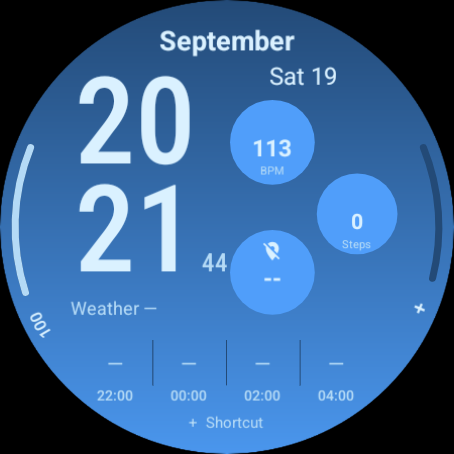
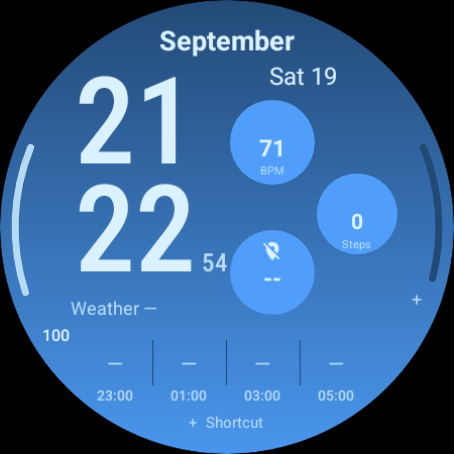
Document verified edge clipping fix with both emulator sizes and Windows setup [skip ci]

diff --git a/docs/VALIDATION.md b/docs/VALIDATION.md
@@ -7,7 +7,7 @@ Build environment: Linux x86-64, Temurin JDK 17, Gradle 8.13, Android Gradle Plu
 | Check | Result |
 | --- | --- |
 | Generated WFF matches source generator | Pass |
-| Seven regression checks | Pass |
+| Eight regression checks | Pass |
 | Official WFF validator 1.7.0, format 2 | Pass |
 | Debug APK and unsigned release AAB | Build successfully |
 | APK/AAB contents | No DEX; referenced images present |
@@ -15,7 +15,7 @@ Build environment: Linux x86-64, Temurin JDK 17, Gradle 8.13, Android Gradle Plu
 | Official memory evaluator, APK and AAB | Pass: active 3,551,360 bytes; ambient 3,181,712 bytes |
 | Whitespace/diff check | Pass |
 
-The regression checks cover six stable slots and their type renderers, distinct tap regions inside the circular screen, disjoint runtime rectangles and bounded rendering parts, all 16 weather conditions with day/night assets, unavailable forecast fallbacks, every hour across midnight/noon, and ambient layer visibility. Resource-label checks also prevent Android-style `@string/` references in raw WFF editor attributes; WFF expects bare resource names.
+The regression checks cover six stable slots and their type renderers, distinct tap regions inside the circular screen, disjoint runtime rectangles and bounded rendering parts, all 16 weather conditions with day/night assets, unavailable forecast fallbacks, every hour across midnight/noon, and ambient layer visibility. A pixel-by-pixel geometry check verifies the complete horizontal edge-caption rectangles remain inside their clipping masks and the round screen. Resource-label checks also prevent Android-style `@string/` references in raw WFF editor attributes; WFF expects bare resource names.
 
 Lint advisories include newer available tool versions, raw-WFF resource references that Android lint cannot trace, and backup metadata for a code-free package. No resource shrinking is enabled, and the package check confirms referenced image resources survive packaging.
 
@@ -25,21 +25,23 @@ Lint advisories include newer available tool versions, raw-WFF resource referenc
 
 The local Wear OS API 34 emulator was launched with software CPU emulation because this host has no `/dev/kvm`. It reached Android startup, but `system_server` repeatedly exceeded its 61-second watchdog timeout before package installation was available. These are operating-system boot failures; **no successful local install, watch-face rendering, complication interaction or ambient screenshot is claimed**.
 
-Hardware-accelerated [GitHub run 35466914072](https://github.com/DylanMc25/ultrawatchfaceedits/actions/runs/35466914072), commit `e8709fc`, passed builds/validation and both emulator jobs. The actual captures were downloaded and visually reviewed:
+Hardware-accelerated [GitHub run 35470002909](https://github.com/DylanMc25/ultrawatchfaceedits/actions/runs/35470002909), commit `d6832f3`, passed builds/validation and both emulator jobs. The actual captures were downloaded and visually reviewed:
 
 | Check | API 34, 454 × 454 round | API 35-ext15, 384 × 384 round |
 | --- | --- | --- |
 | APK installation and face activation | Pass | Pass |
 | Blue gradient, stacked time, date and six areas | Rendered | Rendered |
-| 12/24-hour preference | 08 / 20 hours; forecast labels switch | 08 / 20 hours; forecast labels switch |
+| 12/24-hour preference | 09 / 21 hours; forecast labels switch | 09 / 21 hours; forecast labels switch |
 | Missing weather | `Weather —`, four dashes, future-hour labels | Same |
 | Default providers | Heart rate, steps, battery; unavailable sunrise/sunset | Same |
 | Black always-on with time/date only | Pass, display state `DOZE` | Pass, display state `DOZE` |
-| Ambient illuminated area at captured time | 2.9378% | 2.1914% |
+| Ambient illuminated area at captured time | 2.9371% | 4.4743% |
 
 Illumination counts every non-black pixel within the round screen, including system overlays, with no brightness cutoff. Both captures are below the documented [15% limit](https://developer.android.com/training/wearables/wff/ambient). These measurements establish the captured date/time only, not every possible date, font or device. These captures emulate an unplugged battery so the charging overlay does not cover the shortcut; API 35 still shows the system unread-status dot.
 
 The emulator weather service returned an internal server error; no populated native forecast is claimed. Heart rate and steps are supplied by the emulator's installed providers and are not physical health measurements. Missing provider icons render empty. No readings are fabricated by the face.
+
+Version 0.1.1 fixes edge text cropped by the arc clipping masks. Both edge captions are now horizontal and inset, with smaller text for longer provider values. Rounded rectangular masks contain the complete text rectangles while preserving the six disjoint interaction areas. Native captures still showed cropped bars on the smaller display after widening the earlier arc masks. Rounded bounds preserve the bars and captions and align editor selection with the runtime slot rectangles.
 
 Runtime testing also caught a battery tap being dispatched from the steps circle. The edge slots and all rendering parts now have bounded, disjoint rectangles, with a dedicated regression test; the circular/arc outlines alone were insufficient for native tap dispatch. The native interaction script confirms the blue face before every coordinate tap and reports any launch from the wrong slot.
 
@@ -47,13 +49,13 @@ Runtime testing found a color-setting parse failure that the official schema val
 
 ### Editor and tap verification
 
-Both emulators opened the native editor and independently opened the provider chooser for **all six slots**. The JSON reports in `validation/api34-editor-results.json` and `validation/api35-editor-results.json` record six visible chooser results each, no tap mismatches and no automation errors. Full per-slot PNG/XML/activity captures are in the linked workflow artifacts. The probe cancels each chooser; changing providers and retaining a saved selection across updates remain physical-device checks.
+Both emulators opened the native editor and independently opened the provider chooser for **all six slots**. The JSON reports in `validation/api34-editor-results.json` and `validation/api35-editor-results.json` record six visible chooser results each, no tap mismatches and no automation errors. Full per-slot PNG/XML/activity captures are in the linked workflow artifacts. The probe cancels the six individual chooser checks, then assigns Alarm to the right edge and returns to the active face. This verifies the provider selection and its “Set” label. Retaining selections across updates and reboots remains a physical-device check.
 
 Native tap logs identify the correct steps, sunrise/sunset and battery slots (2, 3, 4). Battery opens the system Battery settings page on both emulators. Steps and sunrise/sunset dispatch to their slots but do not open another foreground app in these images. The emulator placeholder heart-rate provider produces no launch event and leaves the face visible; its real-watch action is unverified. No unsupported launch is reported as successful.
 
 The native editor supplies sample data: September 28 at 09:30, populated weather, heart rate, steps and sunset. Its captures verify the native populated-weather glyphs and spacing, including compact sunset text. These are **Wear OS editor sample readings**, not live weather or health. The actual face continues to display dashes when live weather is unavailable.
 
-The final ambient captures show stippled text. Earlier captures of the same rendering code were also reviewed with continuous thin text and remained below 5% illumination. The measurement applies to each captured state; brightness and readability still need physical Galaxy Watch review.
+The final API 34 ambient capture shows stippled text; API 35 shows continuous thin text. Both remain below 5% illumination. The measurement applies to each captured state; brightness and readability still need physical Galaxy Watch review.
 
 ### Coverage boundaries
 
@@ -61,13 +63,14 @@ The final ambient captures show stippled text. Earlier captures of the same rend
 | --- | --- |
 | September date, real device text metrics | Reviewed on both emulators; no time/date clipping |
 | Longer localized dates, all wide digit pairs | Ellipsis/fit policies implemented; exhaustive native captures pending |
-| Midnight/noon and forecast rollover | All 24 input hours checked against generated label expressions; native captures also show 22:00 / 00:00 / 02:00 / 04:00 forecast labels and 12-hour equivalents. Main-clock noon/midnight transitions remain pending |
+| Midnight/noon and forecast rollover | All 24 input hours checked against generated label expressions; native captures also show 23:00 / 01:00 / 03:00 / 05:00 forecast labels and 12-hour equivalents. Main-clock noon/midnight transitions remain pending |
 | Temperature extremes and unit changes | Uses native temperature values; real weather service unavailable in these emulators |
 | Empty right/bottom complications | Setup placeholders rendered |
+| Edge labels on both display sizes | Battery “100” and assigned Alarm “Set” fully visible; six selectors and correct tap dispatch verified |
 | Unavailable weather and sunrise/sunset | Observed in native captures |
 | Health permission denial | Physical provider consent flow pending |
-| Six separate touch targets | Arc/oval geometry and rectangular runtime bounds pass regression checks; all six provider choosers opened independently on both emulators |
-| Provider selection and tap launches | Correct slot dispatch observed for steps/sunrise/battery; Battery settings opens. Real heart-rate/app destinations and saved-provider persistence require physical hardware |
+| Six separate touch targets | Visible selection geometry and rectangular runtime bounds pass regression checks; all six provider choosers opened independently on both emulators |
+| Provider selection and tap launches | Correct slot dispatch observed for steps/sunrise/battery; Battery settings opens. Alarm selection is saved on exiting the editor. Real heart-rate/app destinations and persistence across updates/reboots require physical hardware |
 
 ## Preview status
 

diff --git a/docs/PULL_REQUEST.md b/docs/PULL_REQUEST.md
@@ -1,6 +1,6 @@
 # Build blue stacked-time watch face with weather and six complications
 
-Replaces the placeholder Ultra Info Board layout with a blue gradient, oversized stacked time, three staggered circular complications, editable left/right edge indicators, and a bottom shortcut. Adds native current weather and four forecasts (+2/+4/+6/+8 hours), plus a black always-on time/date display. Default readings are heart rate, steps, sunrise/sunset and battery; the right edge and shortcut start unassigned.
+Replaces the placeholder Ultra Info Board layout with a blue gradient, oversized stacked time, three staggered circular complications, editable left/right edge indicators, and a bottom shortcut. Adds native current weather and four forecasts (+2/+4/+6/+8 hours), plus a black always-on time/date display. Default readings are heart rate, steps, sunrise/sunset and battery; the right edge and shortcut start unassigned. Edge captions are horizontal and inset, with rounded rectangular clipping masks so battery percentages and assigned provider text stay visible on round screens.
 
 ![Actual API 34 active face](https://raw.githubusercontent.com/DylanMc25/ultrawatchfaceedits/codex/watchface-redesign/docs/previews/emulator-api34-active.png)
 ![Actual API 35 ambient face](https://raw.githubusercontent.com/DylanMc25/ultrawatchfaceedits/codex/watchface-redesign/docs/previews/emulator-api35-ambient.png)
@@ -9,10 +9,10 @@ These are actual Wear OS emulator captures. Weather is unavailable in the emulat
 
 Repairs resource-only WFF 2 packaging, restores the pinned Gradle wrapper, produces a code-free debug APK and unsigned release AAB, and adds build/schema/memory checks plus round Wear OS emulator capture jobs. Includes editable-slot geometry checks, forecast rollover checks, original weather assets, picker preview, and installation/release documentation.
 
-Validation evidence and platform-test limitations are tracked in [docs/VALIDATION.md](https://github.com/DylanMc25/ultrawatchfaceedits/blob/codex/watchface-redesign/docs/VALIDATION.md). Local builds, lint (no errors), seven regression tests, official schema validation, package resource checks, and memory validation pass.
+Validation evidence and platform-test limitations are tracked in [docs/VALIDATION.md](https://github.com/DylanMc25/ultrawatchfaceedits/blob/codex/watchface-redesign/docs/VALIDATION.md). Local builds, lint (no errors), eight regression tests, official schema validation, package resource checks, and memory validation pass.
 
 Both API 34 (454 px round) and API 35 (384 px round) render the face, follow 12/24-hour settings and enter the black ambient display. Reviewed ambient captures illuminate under 5% of the round screen, including system indicators. Complete evidence and untested cases are documented rather than inferred from build success.
 
-All six slots independently open their native provider chooser on both emulators. Steps, sunrise/sunset and battery taps dispatch to the correct slots, and battery opens system Battery settings. The native editor also renders the populated weather layout using its own sample data. Real health-provider launches, live weather and saved-provider persistence remain physical-device checks. [Passing build, validation and emulator run](https://github.com/DylanMc25/ultrawatchfaceedits/actions/runs/35466914072).
+All six slots independently open their native provider chooser on both emulators. Steps, sunrise/sunset and battery taps dispatch to the correct slots, and battery opens system Battery settings. The native editor also renders the populated weather layout using its own sample data. The assigned Alarm edge label is also fully visible on both sizes. Real health-provider launches, live weather and provider persistence across updates/reboots remain physical-device checks. [Passing build, validation and emulator run](https://github.com/DylanMc25/ultrawatchfaceedits/actions/runs/35470002909).
 
 This is a development milestone. Physical Galaxy Watch testing, live weather and Samsung provider/permission flows, final store identity, release signing and Play listing preparation remain required before sale.

diff --git a/README.md b/README.md
@@ -1,6 +1,6 @@
 # Ultra Info Board
 
-A resource-only Galaxy Watch / Wear OS face with a blue gradient, large stacked time, native weather, and six editable complication areas. Based on the supplied layout references; the artwork and weather glyphs here are original.
+A resource-only Galaxy Watch / Wear OS face with a blue gradient, large stacked time, native weather, and six editable complication areas. The layout prioritizes readability on round displays; the artwork and weather glyphs here are original.
 
 **Development milestone, not a store release.** Requires Wear OS 5 (API 34) or later. The working package is `com.example.ultrainfoboard`; choose the permanent publisher/package identity before the first store upload.
 
@@ -33,6 +33,21 @@ adb shell am broadcast -a com.google.android.wearable.app.DEBUG_SURFACE \
 The debug APK is installable and signed with the development key. The release AAB is **unsigned**, for later release preparation. Both builds remove generated Android resource bytecode so no DEX is packaged. Do not enable resource shrinking: resources referenced in raw WFF XML must remain available.
 
 CI runners generate temporary debug signing keys. If an update from a different runner fails with `INSTALL_FAILED_UPDATE_INCOMPATIBLE`, uninstall the earlier development build before installing the new one; this resets that build's watch-face settings. Stable release signing is a later milestone.
+
+### Test a downloaded APK in Android Studio on Windows
+
+1. In Android Studio's **Device Manager**, create and start a round Wear OS API 34 or API 35 virtual device.
+2. Open the latest successful [GitHub Actions run](https://github.com/DylanMc25/ultrawatchfaceedits/actions/workflows/watchface.yml?query=branch%3Acodex%2Fwatchface-redesign) and download **watchface-build-and-reports** under **Artifacts**. Extract the ZIP and locate `app-debug.apk`.
+3. Drag the APK onto the running emulator. This package is a watch face, so it has no normal app launch screen.
+4. Long-press the current watch face, add **Ultra Info Board**, and select it. Long-press again and choose **Customize** or **Edit** to assign complications.
+
+If installation reports mismatched signatures, run this in PowerShell while only one emulator is running, then drag the new APK onto it again:
+
+```powershell
+& "$env:LOCALAPPDATA\Android\Sdk\platform-tools\adb.exe" -e uninstall com.example.ultrainfoboard
+```
+
+Expect `Success`. Uninstalling resets this face's saved complication choices. The full path avoids the `adb is not recognized` error; if your SDK is elsewhere, use its location from Android Studio's SDK Manager.
 
 For a physical Galaxy Watch, enable developer options and wireless debugging, then use `adb pair WATCH_IP:PAIRING_PORT` and `adb connect WATCH_IP:DEBUG_PORT` with the addresses shown on the watch. After installation, open the watch-face picker and add **Ultra Info Board**. The debug selection broadcast above is used by the emulator tests; use the picker if the watch does not honor it. All physical Galaxy Watch results remain pending.
 

diff --git a/docs/previews/README.md b/docs/previews/README.md
@@ -11,6 +11,10 @@ The `*-editor.png` images are the real Wear OS editor, using **system sample rea
 
 ![Native editor with system sample data](emulator-api34-editor.png)
 
+## Edge-caption regression
+
+The `*-edge-alarm.png` images assign the system Alarm provider to the right edge on the disposable emulator. They verify that its “Set” text and the left battery label are fully visible. The default APK still leaves the right edge unassigned.
+
 ## Illustrative populated-weather layout
 
 `active-illustrative.png` and `ambient-illustrative.png` are **illustrative renders**, not emulator screenshots. They read the committed WFF geometry/colors and use explicit sample data (September 19, 02:26, 71 bpm, 8,420 steps, 62% battery, sample weather). Actual readings always come from Wear OS/providers.
